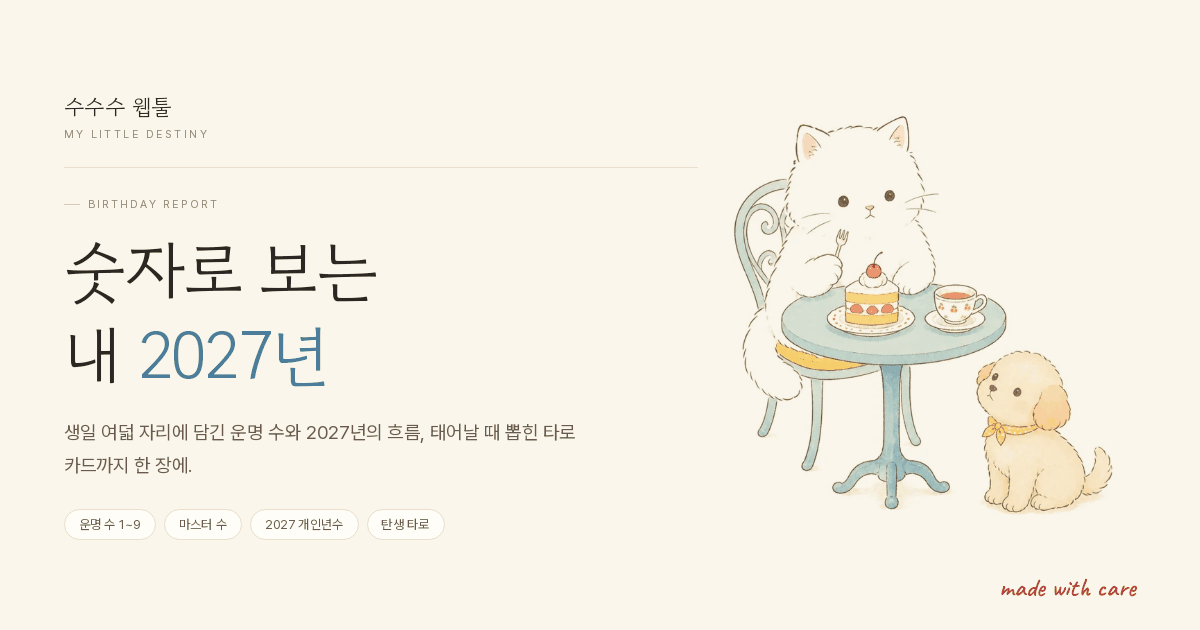
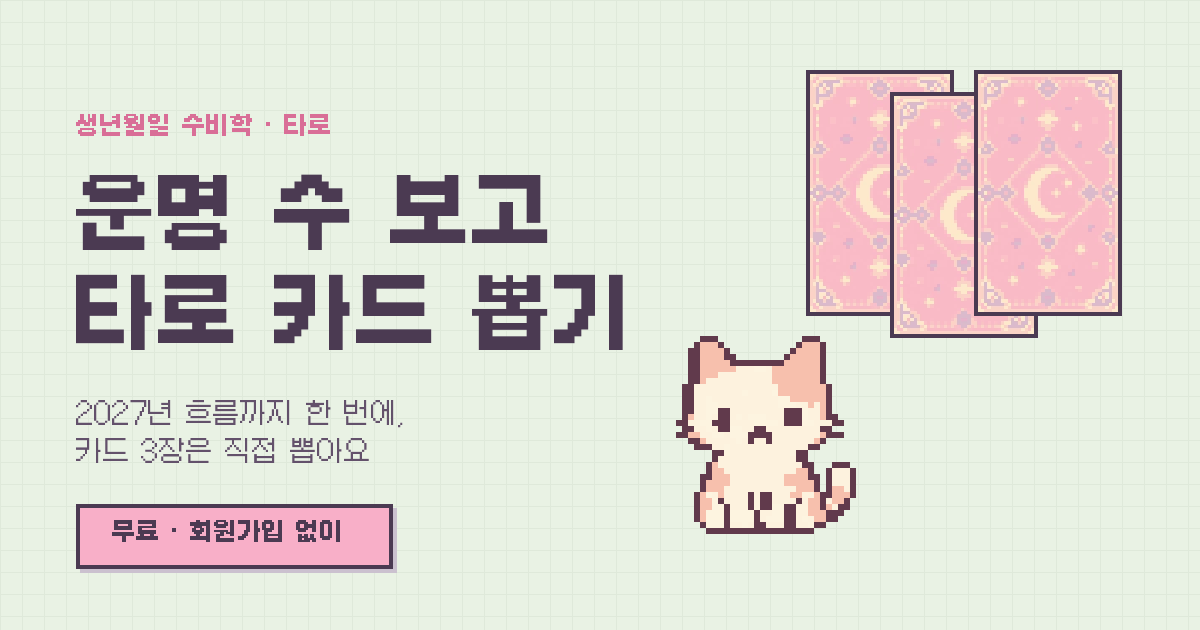
destiny-number: OG 이미지 픽셀 버전 교체, QA 페이지 제거, 도구 모음 문구 갱신

diff --git a/index.html b/index.html
@@ -97,8 +97,8 @@ h2{font-size:19px;letter-spacing:-.02em;margin:38px 0 12px}
     <a class="tool" href="destiny-number/">
       <span class="tag">숫자·운세</span>
       <b>생년월일 수비학 리포트</b>
-      <p>생일만 고르면 운명 수(1~9, 마스터 수 11·22·33)와 2027년 개인년수 흐름, 탄생 타로 카드까지 한 장에 나와요. 결과는 PNG로 저장하거나 바로 공유할 수 있어요.</p>
-      <span class="go">내 숫자 보기 →</span>
+      <p>생일만 고르면 운명 수(1~9, 마스터 수 11·22·33)와 2027년 개인년수 흐름이 나오고, 이어서 타로 카드 6장 중 3장을 직접 뽑아요. 결과는 PNG로 저장하거나 바로 공유할 수 있어요.</p>
+      <span class="go">숫자 보고 카드 뽑기 →</span>
     </a>
   </div>
 
